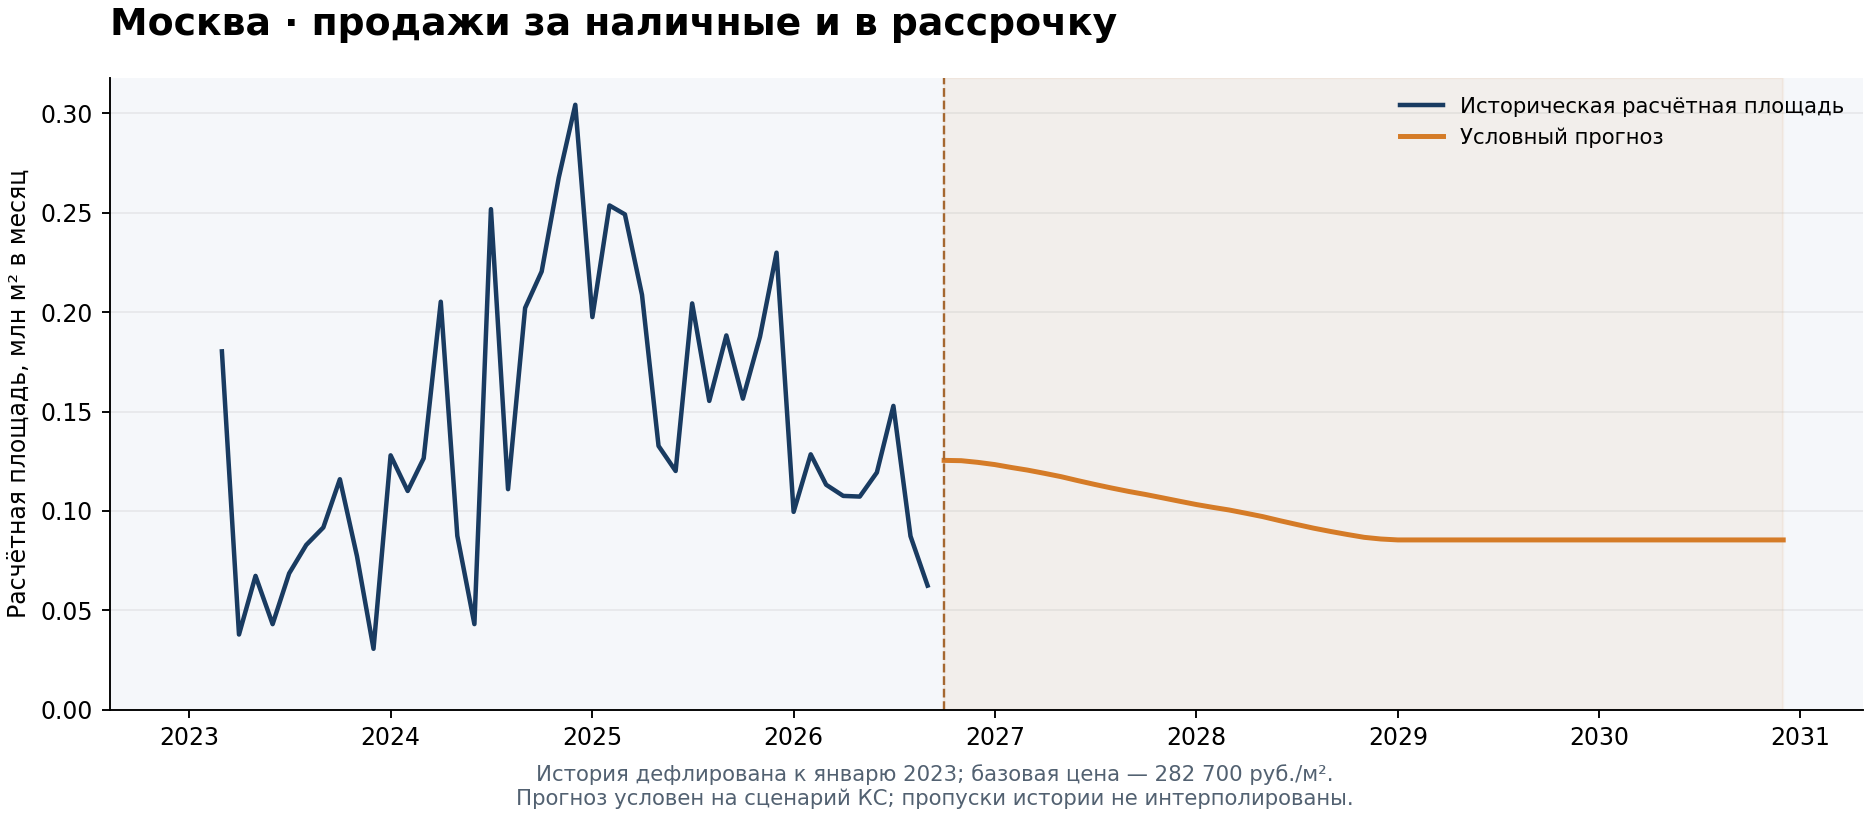
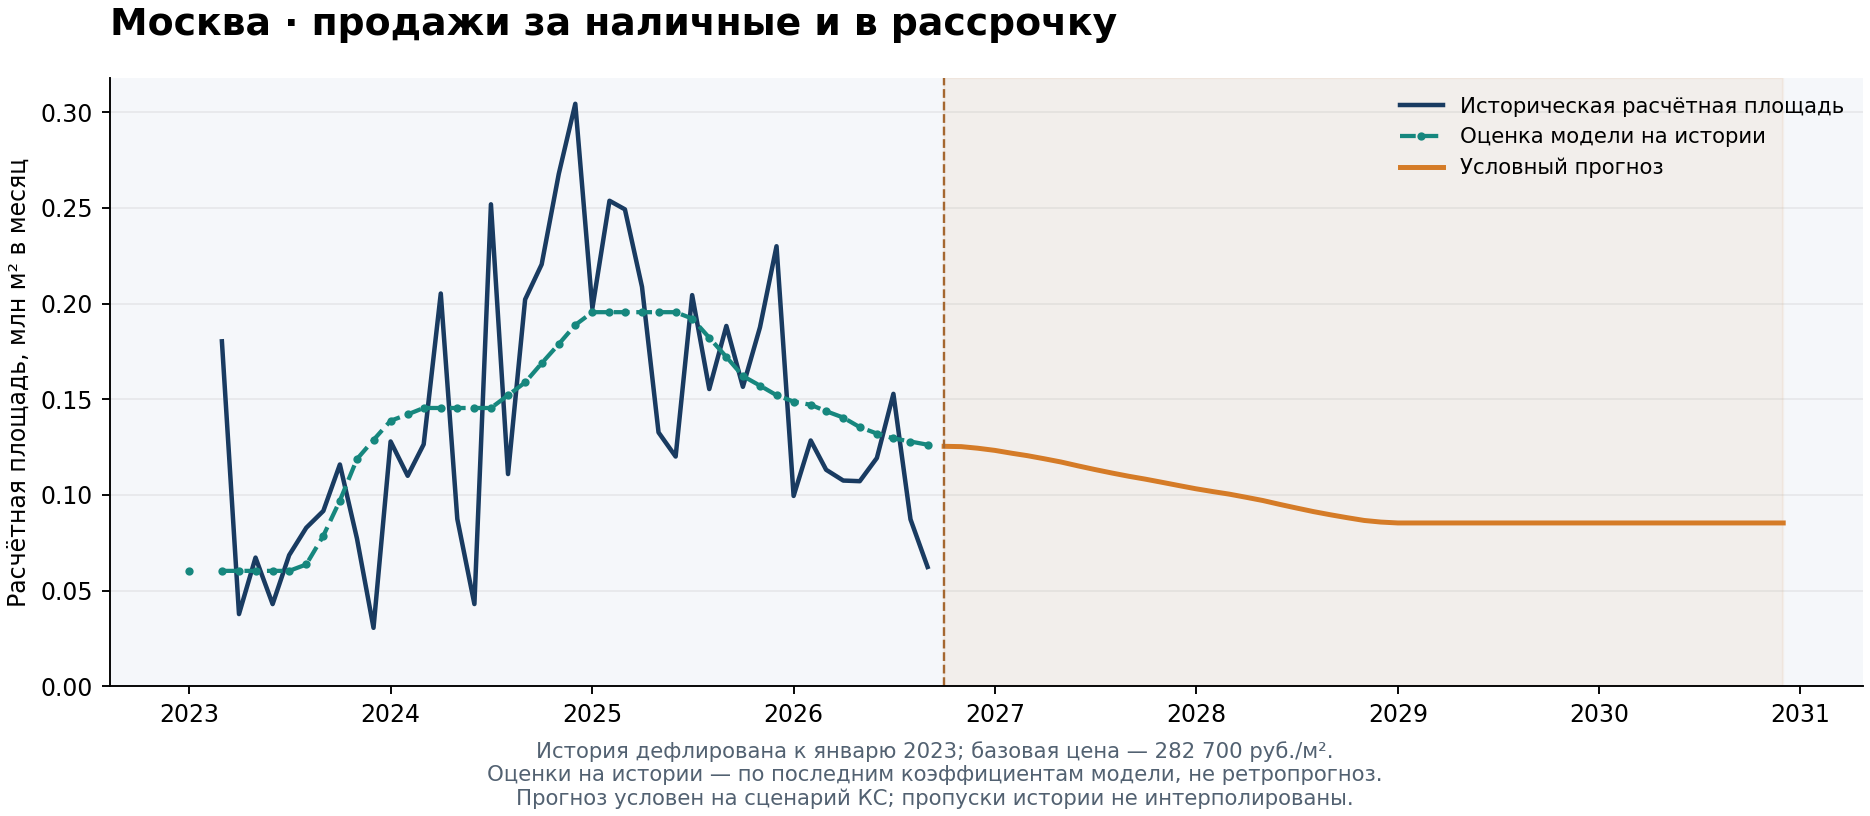
Добавить оценки модели на историческую часть графика

diff --git a/scripts/update_preview.py b/scripts/update_preview.py
@@ -1,5 +1,6 @@
 """Build the README chart from a saved model run (default: reference_results)."""
 import argparse
+import json
 from pathlib import Path
 import matplotlib
 matplotlib.use('Agg')
@@ -13,10 +14,20 @@ parser.add_argument('--results', type=Path, default=ROOT / 'reference_results')
 args = parser.parse_args()
 history = pd.read_csv(args.results / 'input_series.csv', parse_dates=['date'])
 forecast = pd.read_csv(args.results / 'forecast_monthly.csv', parse_dates=['date'])
+metadata = json.loads((args.results / 'diagnostics.json').read_text(encoding='utf-8'))
+fitted = history.set_index('date')[['ks_avg3', 'real']].copy()
+fitted['area_mln_m2'] = (
+    metadata['diagnostics']['alpha'] + metadata['diagnostics']['beta'] * fitted.ks_avg3
+) * 1_000 / metadata['base_price_rub_m2']
+# Show fitted values only where a historical sales observation is available.
+fitted.loc[fitted.real.isna(), 'area_mln_m2'] = float('nan')
 fig, ax = plt.subplots(figsize=(11, 4.8), layout='constrained')
 fig.patch.set_facecolor('#ffffff')
 ax.set_facecolor('#f5f7fa')
 ax.plot(history.date, history.area_mln_m2, color='#193b61', linewidth=1.9, label='Историческая расчётная площадь')
+ax.plot(fitted.index, fitted.area_mln_m2, color='#16877e', linewidth=1.8,
+        linestyle='--', marker='o', markersize=2.5,
+        label='Оценка модели на истории')
 ax.plot(forecast.date, forecast.area_mln_m2, color='#d57b27', linewidth=2.1, label='Условный прогноз')
 ax.axvspan(forecast.date.iloc[0], forecast.date.iloc[-1], color='#d57b27', alpha=.07)
 ax.axvline(forecast.date.iloc[0], color='#a56730', linestyle='--', linewidth=1)
@@ -28,7 +39,7 @@ ax.set_ylim(bottom=0)
 ax.grid(axis='y', alpha=.2)
 ax.spines[['top', 'right']].set_visible(False)
 ax.legend(loc='upper right', frameon=False, fontsize=9)
-footer = 'История дефлирована к январю 2023; базовая цена — 282 700 руб./м².\nПрогноз условен на сценарий КС; пропуски истории не интерполированы.'
+footer = 'История дефлирована к январю 2023; базовая цена — 282 700 руб./м².\nОценки на истории — по последним коэффициентам модели, не ретропрогноз.\nПрогноз условен на сценарий КС; пропуски истории не интерполированы.'
 if 'price_index_assumed' in history and history['price_index_assumed'].astype(str).str.lower().eq('true').any():
     footer += '\nПредварительно: индекс сентября 2026 принят равным августовскому.'
 fig.supxlabel(footer, fontsize=9, color='#526171')

diff --git a/README.md b/README.md
@@ -6,6 +6,8 @@
 
 ![Историческая расчётная площадь и условный прогноз продаж](docs/images/sales_area.png)
 
+Бирюзовая пунктирная линия показывает оценки модели на исторических точках по последним коэффициентам Хьюбера. Это соответствие модели обучающей истории; качество прогнозирования оценивается отдельно в исторической проверке.
+
 ## Результат на данных за девять месяцев 2026 года
 
 **Индекс цен обновлён по фактической выгрузке ДОМ.РФ за сентябрь 2026:** Москва / Общий / Все — 241,72054. Допущение «сентябрь = август» больше не применяется.
